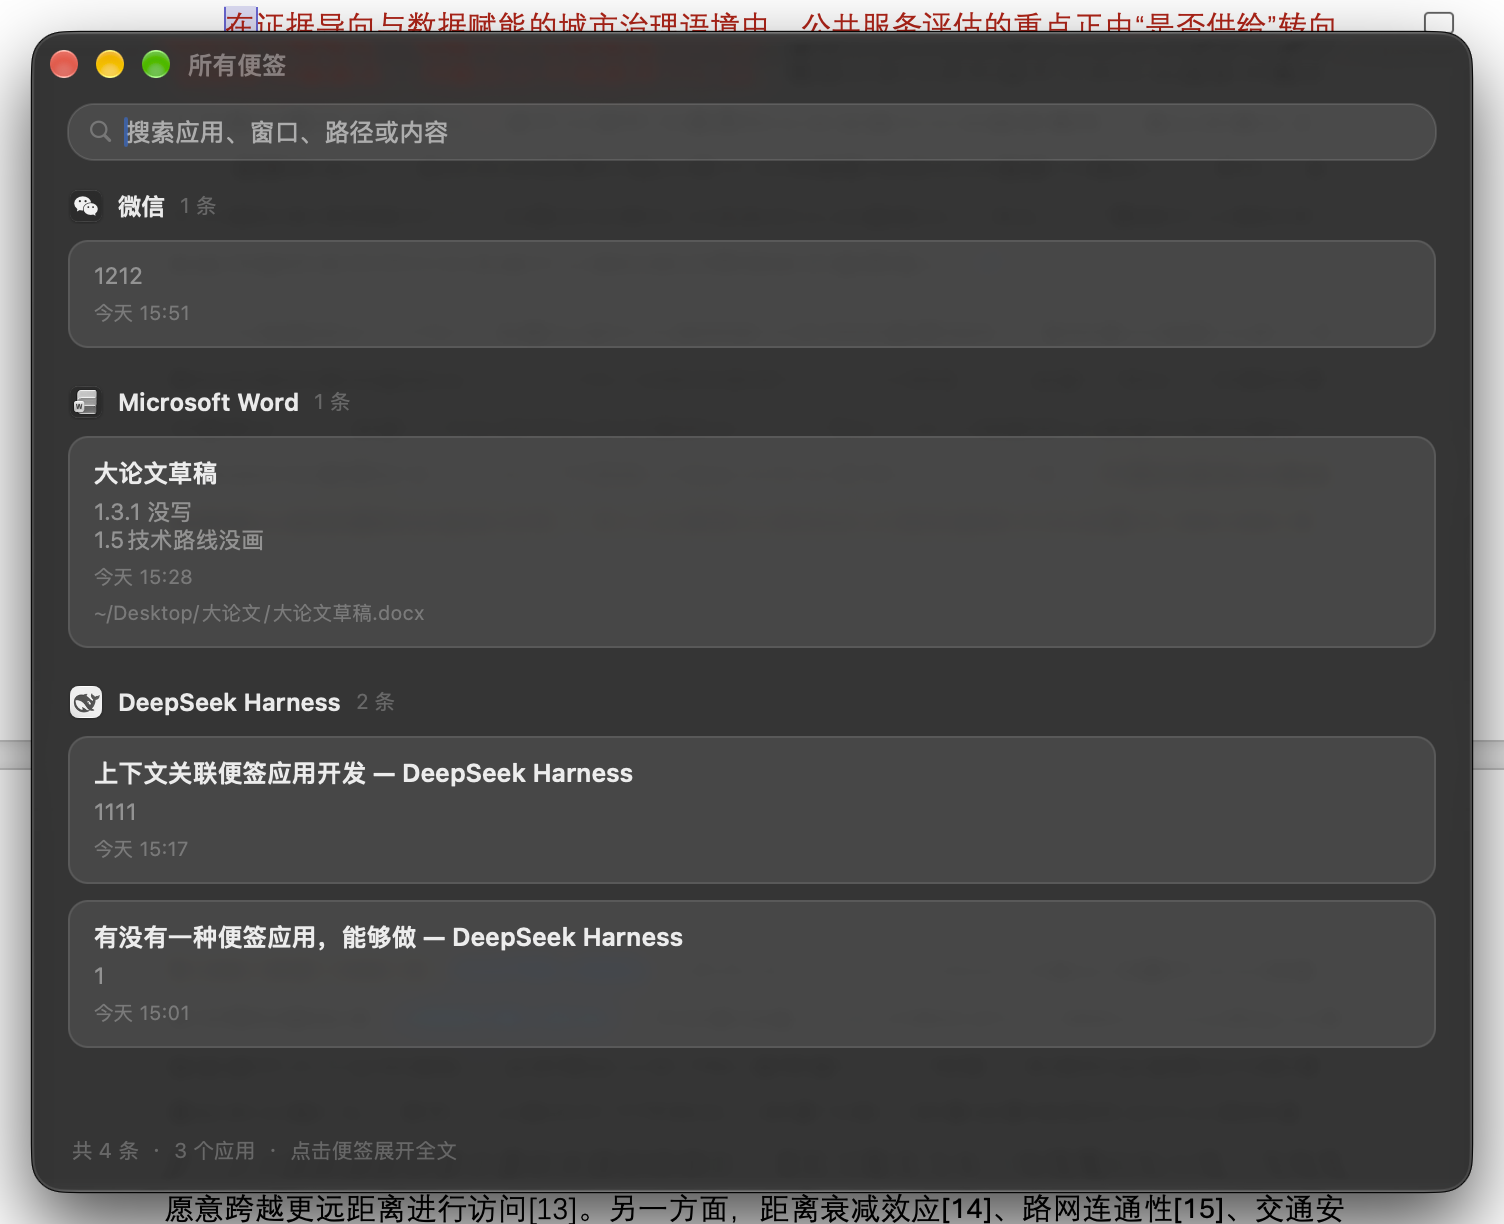
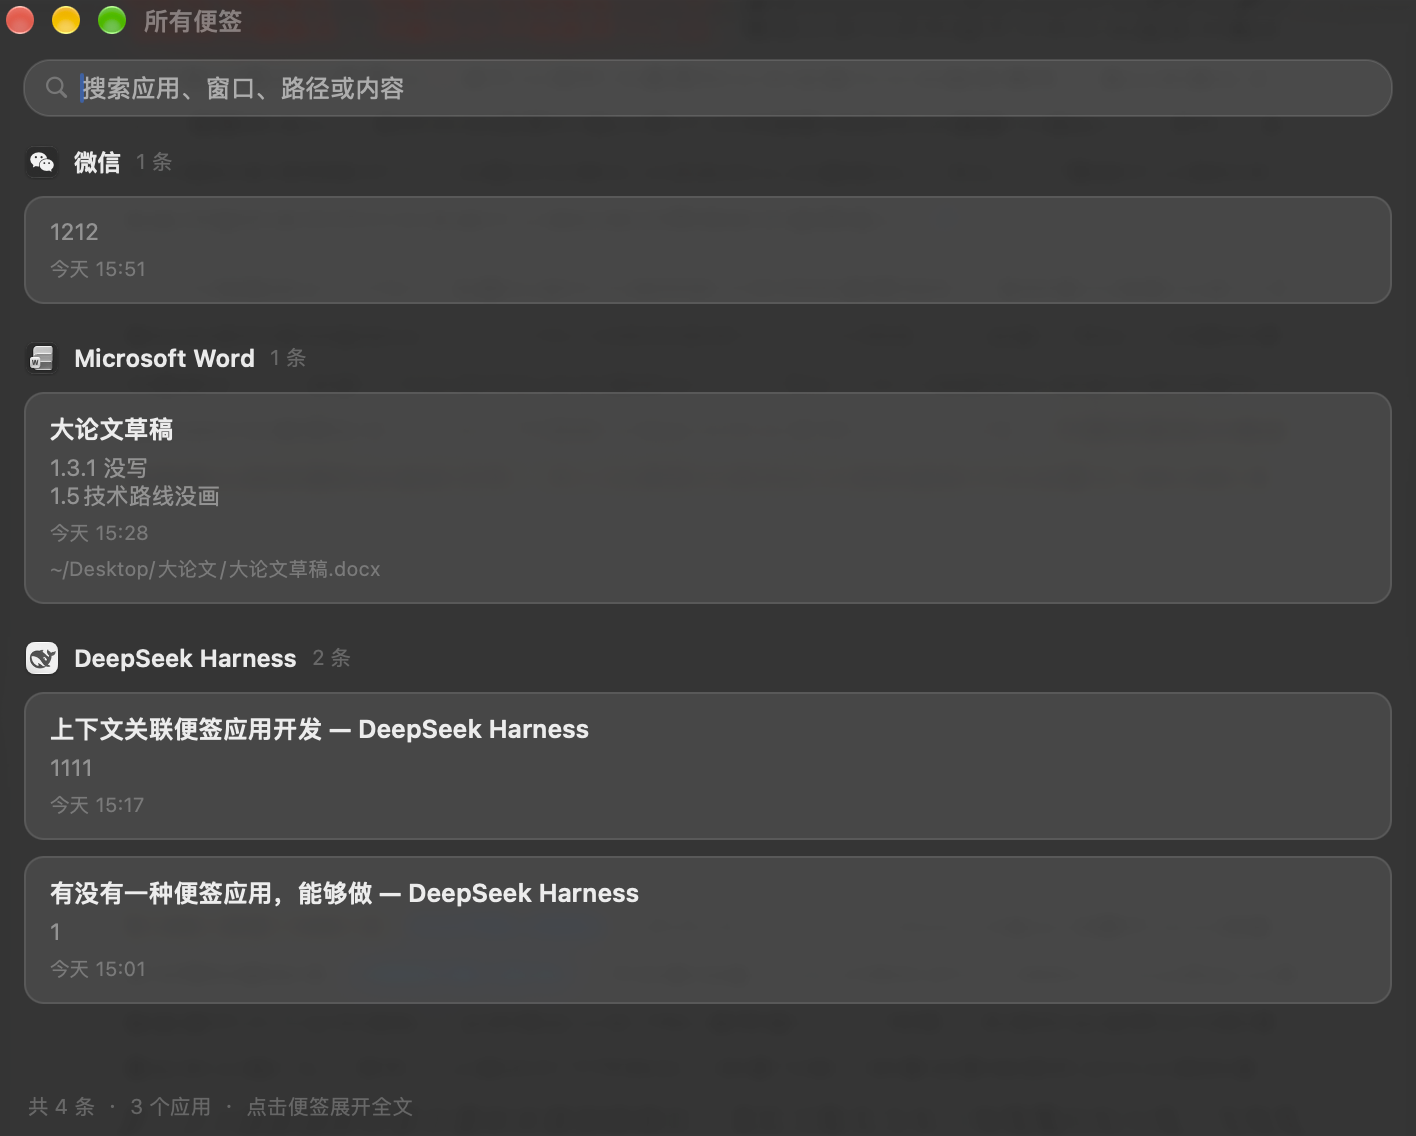
README: 加入应用截图与图标展示
- 便签面板、总面板的浅色/深色截图
- 四态图标并排展示
- 移除生成型的单张图标预览

Changed region(s): [[0.0, 0.0, 1.0, 1.0]]

diff --git a/README.md b/README.md
@@ -8,15 +8,24 @@ you were looking at when you wrote it. Summon it again in the same place and you
 note is already there. ~1100 lines of Swift, no third-party dependencies, no Xcode
 required.
 
-![](design/board-light.png)
+## 截图
 
-<table>
-<tr>
-<td><img src="design/note-panel.png" width="380"></td>
-<td><img src="design/board-dark.png" width="380"></td>
-</tr>
-<tr><td align="center">按 ⌥⌘N 呼出 · Liquid Glass 面板</td><td align="center">深色模式</td></tr>
-</table>
+| 便签面板 · 浅色 | 便签面板 · 深色 |
+|---|---|
+| ![](design/note-panel-light.png) | ![](design/note-panel-dark.png) |
+
+| 总面板 · 浅色 | 总面板 · 深色 |
+|---|---|
+| ![](design/board-light.png) | ![](design/board-dark.png) |
+
+面板是系统级的 Liquid Glass 材质，浅色深色各自成立，背后的内容会透过玻璃被模糊。
+
+## 图标
+
+![](design/icons.png)
+
+从左到右：默认（浅色）· 深色 · 透明（浅色）· 透明（深色）。
+跟随系统设置里的「图标与小组件样式」自动切换，不需要手动选。
 
 ## 快速开始
 
@@ -60,7 +69,7 @@ cd ContextNotes
 
 呼出就是一块 Liquid Glass，没有地址栏、不显示位置——你写的就是"这个位置的那张便签"。
 
-![](design/note-panel.png)
+![](design/note-panel-light.png)
 
 用的是 macOS 26 起的系统材质 `NSGlassEffectView`，不是自己画的假玻璃：
 
